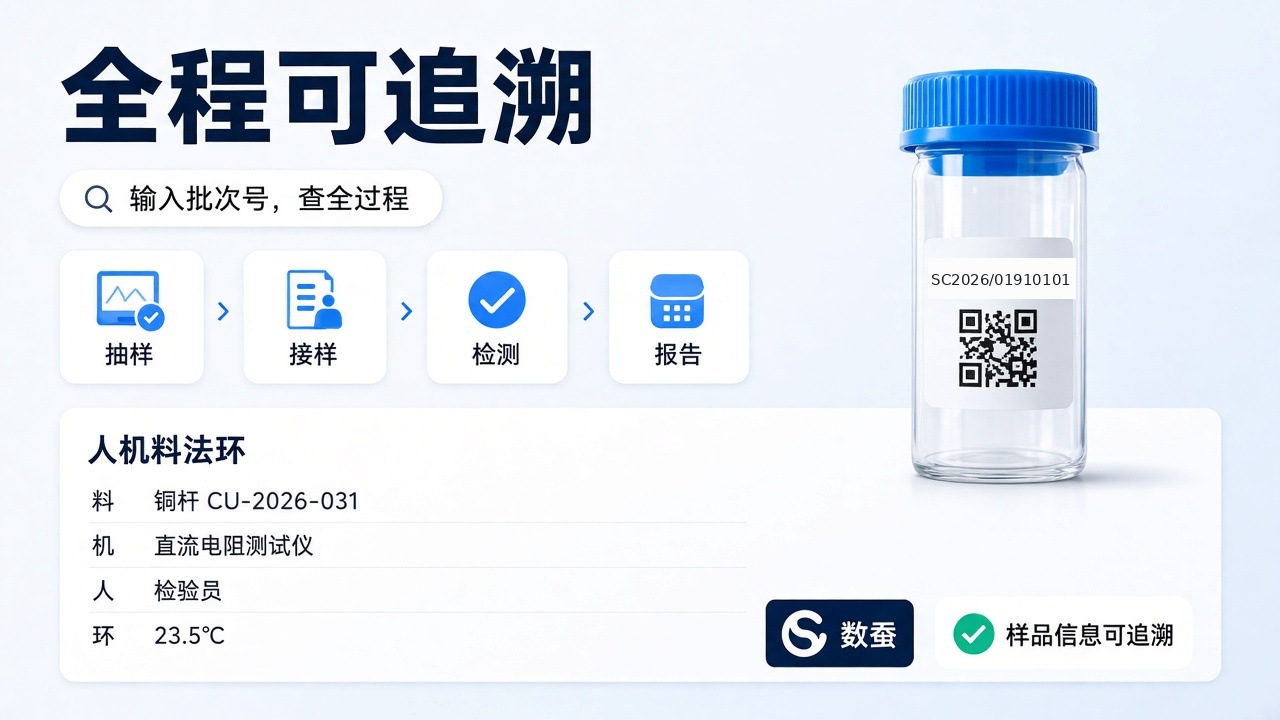
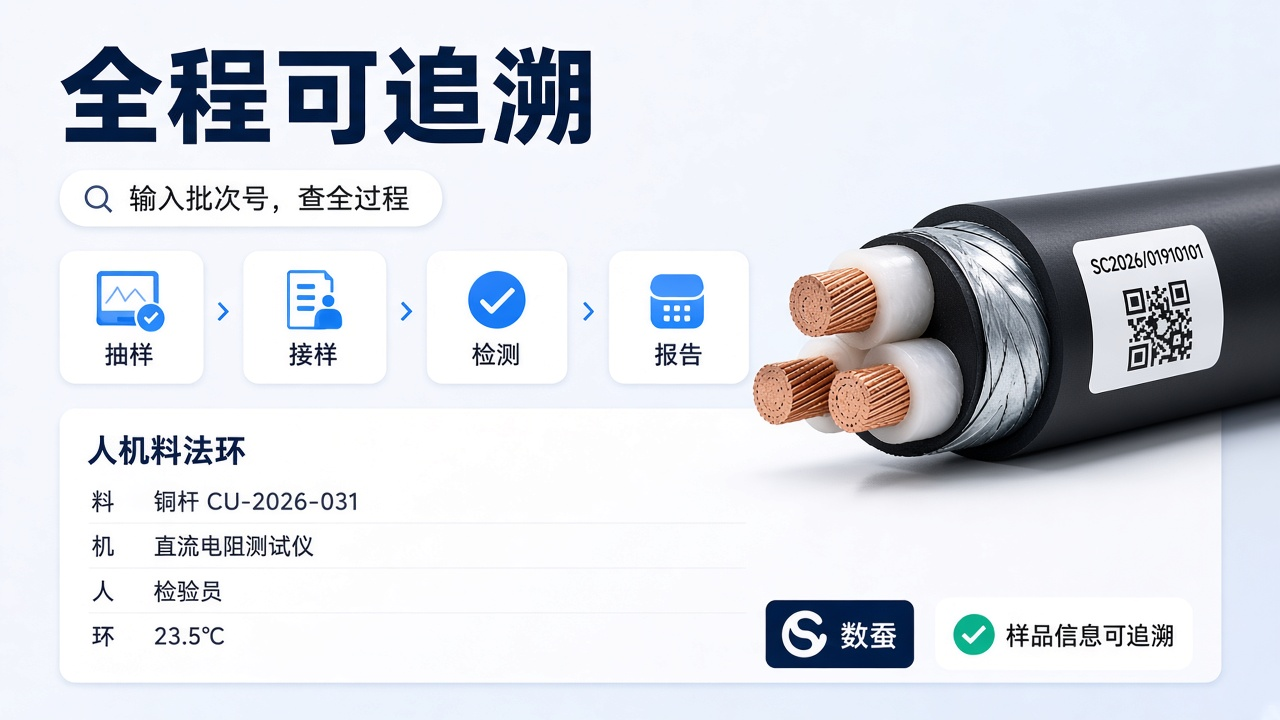
fix: 优势4配图的样品瓶换成电力电缆

diff --git a/shucan-lims-brochure.html b/shucan-lims-brochure.html
@@ -389,7 +389,7 @@
             </ul>
           </div>
           <div class="visual">
-            <img class="illu" src="assets/brochure/15-trace.jpg" alt="输入批次号可追溯抽样、接样、检测和报告，并看到铜杆批次、检测设备和环境温度" />
+            <img class="illu" src="assets/brochure/15-trace.jpg?v=cable" alt="输入批次号可追溯抽样、接样、检测和报告，电缆样品贴有编号和二维码" />
             <p class="cap">批次号或条码可追到原料、设备、人员和温度。</p>
           </div>
         </article>
